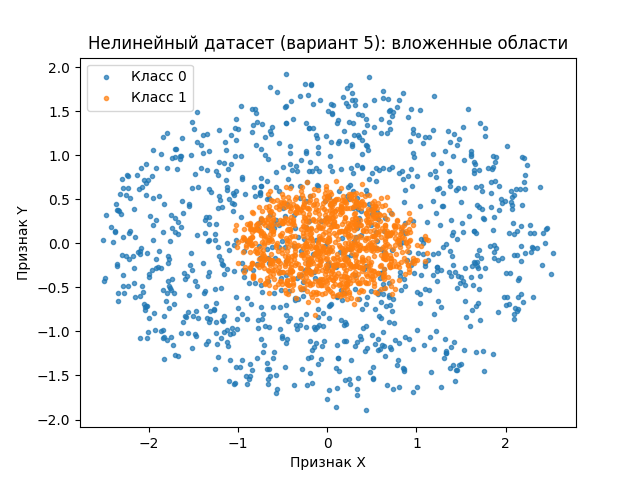
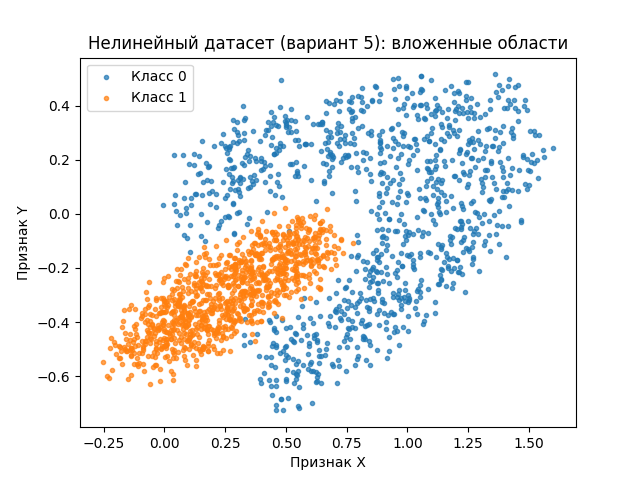
вот такие пироги

diff --git a/lab1/DataGenerator.py b/lab1/DataGenerator.py
@@ -50,10 +50,12 @@ def norm_dataset(mu, sigma, N):
 
 def nonlinear_dataset_5(N=1000):
     """
-    Генерирует двумерные данные варианта 5: вложенные эллипсы (внешний и внутренний класс).
+    Генерирует двумерные данные варианта 5: класс 0 обволакивает класс 1.
 
-    Класс 0 — точки в большой эллиптической области.
-    Класс 1 — точки в меньшей эллиптической области внутри первой (миндалевидная форма).
+    Класс 1 — вытянутый овал в нижнем левом углу (большая ось снизу-слева вверх-вправо).
+
+    Класс 0 — U-образная оболочка вокруг класса 1: внешний эллипс с «вырезом»
+    в нижнем левом углу (открытие U), так что класс 0 огибает овал сверху, справа и снизу.
 
     Параметры:
         N: число объектов в каждом классе
@@ -61,35 +63,77 @@ def nonlinear_dataset_5(N=1000):
     Возвращает:
         X, Y, class0, class1 — аналогично norm_dataset
     """
-    # Параметры эллипсов (полуоси). Внешний больше внутреннего.
-    a_outer, b_outer = 2.5, 1.8
-    a_inner, b_inner = 1.0, 0.6
-    center = (0.0, 0.0)
-    noise = 0.08
-
     rng = np.random.default_rng()
+    # Шум при генерации: добавляется к каждой точке. Больше — размытее границы.
+    noise = 0.04
 
-    # Класс 0: отбор точек внутри внешнего эллипса (rejection sampling)
-    class0_list = []
-    while len(class0_list) < N:
-        x = rng.uniform(-a_outer * 1.2, a_outer * 1.2)
-        y = rng.uniform(-b_outer * 1.2, b_outer * 1.2)
-        if (x - center[0]) ** 2 / a_outer**2 + (y - center[1]) ** 2 / b_outer**2 < 1:
-            x += rng.normal(0, noise)
-            y += rng.normal(0, noise)
-            class0_list.append([x, y])
-    class0 = np.array(class0_list)
+    # ========== Класс 1 (внутренний овал) ==========
+    # cx, cy — центр овала класса 1 на плоскости (X, Y). Сдвиг меняет положение овала.
+    cx, cy = 0.25, -0.3
+    # angle_deg — угол поворота овала в градусах (0 = горизонтально, 90 = вертикально).
+    # Оба класса используют один и тот же угол.
+    angle_deg = 28
+    angle_rad = np.deg2rad(angle_deg)
+    cos_a, sin_a = np.cos(angle_rad), np.sin(angle_rad)
 
-    # Класс 1: точки внутри внутреннего эллипса
+    def to_local(x, y, cx_=None, cy_=None):
+        """Перевод (x,y) в локальные координаты эллипса: u вдоль большой оси, v вдоль малой."""
+        if cx_ is None:
+            cx_, cy_ = cx, cy
+        u = (x - cx_) * cos_a + (y - cy_) * sin_a
+        v = -(x - cx_) * sin_a + (y - cy_) * cos_a
+        return u, v
+
+    def inside_ellipse(x, y, a, b, cx_=None, cy_=None):
+        if cx_ is None:
+            cx_, cy_ = cx, cy
+        u, v = to_local(x, y, cx_, cy_)
+        return (u**2 / a**2 + v**2 / b**2) < 1
+
+    # a1 — большая полуось овала класса 1 (длина). b1 — малая полуось (толщина).
+    # Меньше b1 при том же a1 — овал более сплюснутый (тоньше).
+    a1, b1 = 0.5, 0.14
     class1_list = []
     while len(class1_list) < N:
-        x = rng.uniform(-a_inner, a_inner)
-        y = rng.uniform(-b_inner, b_inner)
-        if (x - center[0]) ** 2 / a_inner**2 + (y - center[1]) ** 2 / b_inner**2 < 1:
+        x = rng.uniform(cx - a1 - 0.2, cx + a1 + 0.2)
+        y = rng.uniform(cy - a1 - 0.2, cy + a1 + 0.2)
+        if inside_ellipse(x, y, a1, b1):
             x += rng.normal(0, noise)
             y += rng.normal(0, noise)
             class1_list.append([x, y])
     class1 = np.array(class1_list)
+
+    # ========== Класс 0 (U-образная оболочка) ==========
+    # cx0, cy0 — центр оболочки. Задаётся сдвигом от центра класса 1 (cx, cy).
+    #   cx0 = cx + ... — сдвиг вправо (больше = оболочка правее).
+    #   cy0 = cy + ... — сдвиг вверх (больше = оболочка выше). Отрицательное — ниже.
+    cx0, cy0 = cx + 0.2, cy + 0.12
+    # a2, b2 — полуоси внешнего эллипса оболочки (её внешняя граница).
+    #   a2 — вдоль «длины» U, b2 — вдоль «высоты». Меньше b2 — U более сплюснутая.
+    a2, b2 = 1.2, 0.50
+    # a_inner_gap, b_inner_gap — полуоси внутренней границы оболочки (где заканчивается класс 0).
+    #   Больше этих значений — больший зазор между классом 0 и классом 1 (оболочка дальше от овала).
+    #   Меньше — оболочка ближе к овалу, зазор тоньше.
+    a_inner_gap, b_inner_gap = 0.5, 0.21
+    # u_cut — граница «выреза» U в локальных координатах оболочки (ось u вдоль большой оси).
+    #   Точки с u < u_cut отбрасываются → получается открытие U. Больше u_cut (например 0) — вырез шире,
+    #   оболочка короче слева. Меньше u_cut (например -0.5) — вырез уже, оболочка длиннее слева.
+    u_cut = -0.25
+
+    class0_list = []
+    while len(class0_list) < N:
+        x = rng.uniform(cx0 - a2 - 0.15, cx0 + a2 + 0.15)
+        y = rng.uniform(cy0 - b2 - 0.15, cy0 + b2 + 0.15)
+        u, v = to_local(x, y, cx0, cy0)
+        # Внутри внешнего эллипса, снаружи внутренней границы оболочки, и не в «вырезе» (u >= u_cut)
+        in_outer = inside_ellipse(x, y, a2, b2, cx0, cy0)
+        in_inner = inside_ellipse(x, y, a_inner_gap, b_inner_gap, cx0, cy0)
+        not_in_cut = u >= u_cut
+        if in_outer and not in_inner and not_in_cut:
+            x += rng.normal(0, noise)
+            y += rng.normal(0, noise)
+            class0_list.append([x, y])
+    class0 = np.array(class0_list)
 
     Y0 = np.zeros((N,), dtype=bool)
     Y1 = np.ones((N,), dtype=bool)

diff --git a/lab1/main.py b/lab1/main.py
@@ -15,12 +15,12 @@ try:
 except ImportError:
     import lab1.DataGenerator as dg
 
-# --- Параметры по методичке (3 признака) ---
+# --- Параметры: 4-мерное пространство признаков (по заданию) ---
 N = 1000
-mu0 = [0, 2, 3]
-mu1 = [3, 5, 1]
-sigma0 = [2, 1, 2]
-sigma1 = [1, 2, 1]
+mu0 = [0, 2, 3, 1]
+mu1 = [3, 5, 1, 4]
+sigma0 = [2, 1, 2, 1.5]
+sigma1 = [1, 2, 1, 1]
 mu = [mu0, mu1]
 sigma = [sigma0, sigma1]
 
